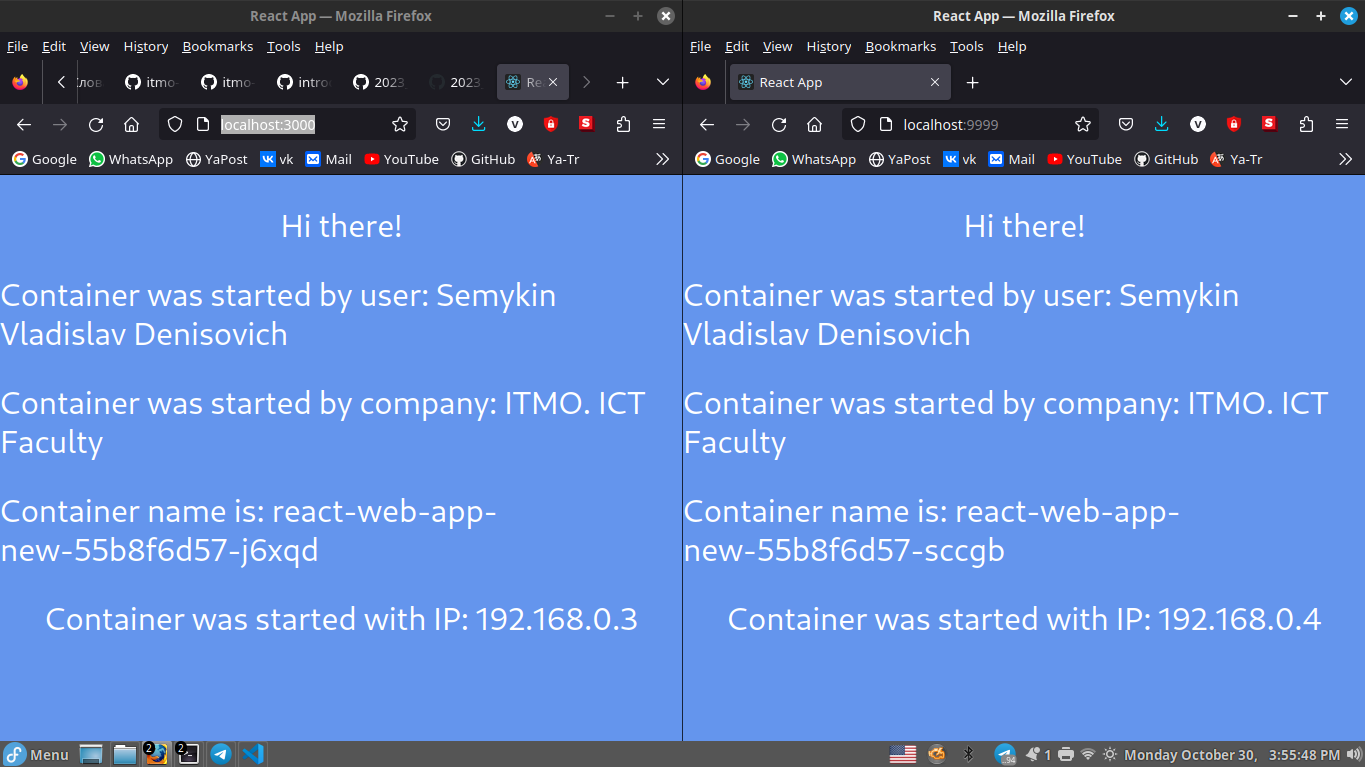
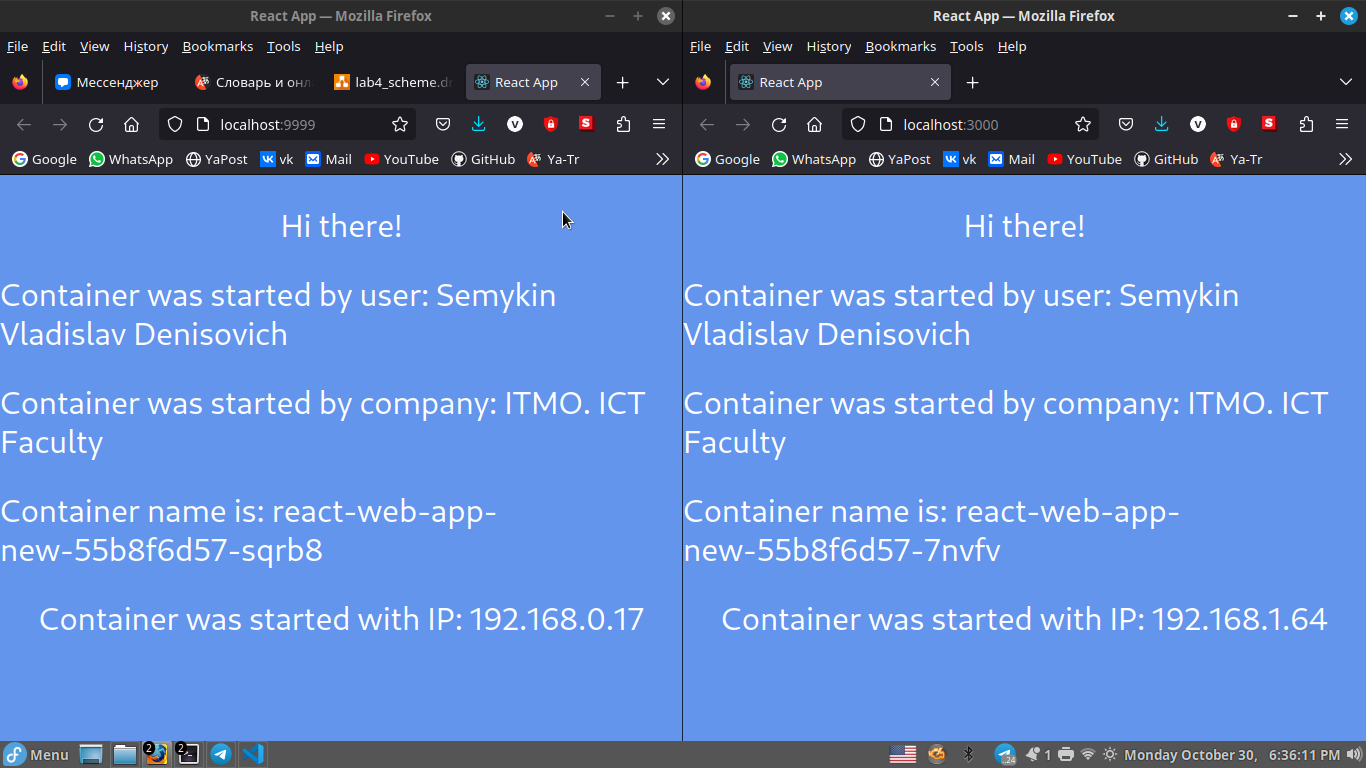
Fixed issue with IP pools

diff --git a/lab4/lab4_report.md b/lab4/lab4_report.md
@@ -126,6 +126,10 @@ Command `kubectl edit` would open your default text editor with the manifest of 
 
 <img src="imgs/2.png">
 
+Node manifests after the editing:
+
+<img src="imgs/edited_node_manifests.png">
+
 Let check our labels:
 
 ```bash
@@ -238,28 +242,28 @@ kubectl get ingress -n common-namespace
 
 ```
 NAME               STATUS   AGE
-common-namespace   Active   84s
-default            Active   20h
-kube-node-lease    Active   20h
-kube-public        Active   20h
-kube-system        Active   20h
+common-namespace   Active   30s
+default            Active   23h
+kube-node-lease    Active   23h
+kube-public        Active   23h
+kube-system        Active   23h
 NAME                                    READY   STATUS    RESTARTS   AGE
-pod/react-web-app-new-55b8f6d57-ss8kb   1/1     Running   0          84s
-pod/react-web-app-new-55b8f6d57-txpb7   1/1     Running   0          84s
+pod/react-web-app-new-55b8f6d57-7nvfv   1/1     Running   0          31s
+pod/react-web-app-new-55b8f6d57-sqrb8   1/1     Running   0          31s
 
-NAME                    TYPE        CLUSTER-IP     EXTERNAL-IP   PORT(S)    AGE
-service/react-web-app   ClusterIP   10.111.54.92   <none>        3000/TCP   84s
+NAME                    TYPE        CLUSTER-IP      EXTERNAL-IP   PORT(S)    AGE
+service/react-web-app   ClusterIP   10.104.223.15   <none>        3000/TCP   31s
 
 NAME                                READY   UP-TO-DATE   AVAILABLE   AGE
-deployment.apps/react-web-app-new   2/2     2            2           84s
+deployment.apps/react-web-app-new   2/2     2            2           31s
 
 NAME                                          DESIRED   CURRENT   READY   AGE
-replicaset.apps/react-web-app-new-55b8f6d57   2         2         2       84s
+replicaset.apps/react-web-app-new-55b8f6d57   2         2         2       31s
 NAME               DATA   AGE
-config             2      85s
-kube-root-ca.crt   1      85s
+config             2      31s
+kube-root-ca.crt   1      31s
 NAME            CLASS    HOSTS                  ADDRESS   PORTS     AGE
-react-web-app   <none>   vladislavsemykin.com             80, 443   85s
+react-web-app   <none>   vladislavsemykin.com             80, 443   31s
 ```
 
 Exposing service at the port = 3000:
@@ -277,9 +281,9 @@ kubectl get pods -n common-namespace -o wide
 ```
 
 ```
-NAME                                READY   STATUS    RESTARTS   AGE     IP            NODE            NOMINATED NODE   READINESS GATES
-react-web-app-new-55b8f6d57-j6xqd   1/1     Running   0          7m49s   192.168.0.3   multinode-app   <none>           <none>
-react-web-app-new-55b8f6d57-sccgb   1/1     Running   0          7m49s   192.168.0.4   multinode-app   <none>           <none>
+NAME                                READY   STATUS    RESTARTS   AGE   IP             NODE                NOMINATED NODE   READINESS GATES
+react-web-app-new-55b8f6d57-7nvfv   1/1     Running   0          58s   192.168.1.64   multinode-app-m02   <none>           <none>
+react-web-app-new-55b8f6d57-sqrb8   1/1     Running   0          58s   192.168.0.17   multinode-app       <none>           <none>
 ```
 
 ### Checking that both of pods are working properly
@@ -287,8 +291,8 @@ react-web-app-new-55b8f6d57-sccgb   1/1     Running   0          7m49s   192.168
 For do this, we can do `port-forwarding` mechanism:
 
 ```bash
-kubectl port-forward -n common-namespace pod/react-web-app-new-55b8f6d57-j6xqd 3000:3000
-kubectl port-forward -n common-namespace pod/react-web-app-new-55b8f6d57-sccgb 9999:3000
+kubectl port-forward -n common-namespace pod/react-web-app-new-55b8f6d57-7nvfv 3000:3000
+kubectl port-forward -n common-namespace pod/react-web-app-new-55b8f6d57-sqrb8 9999:3000
 ```
 
 <img src="imgs/4.png">
@@ -301,15 +305,15 @@ As we can see, both of pods are working properly, if we check them on addresses 
 
 #### Table 1 - Pod name and corresponding IP
 
-|             Pod name              |     IP      |
-| :-------------------------------: | :---------: |
-| react-web-app-new-55b8f6d57-j6xqd | 192.168.0.3 |
-| react-web-app-new-55b8f6d57-sccgb | 192.168.0.4 |
+|             Pod name              |      IP      |
+| :-------------------------------: | :----------: |
+| react-web-app-new-55b8f6d57-7nvfv | 192.168.1.64 |
+| react-web-app-new-55b8f6d57-sqrb8 | 192.168.0.17 |
 
 On the previous image and after executing command to get all resources we can see IPs of the both pod-shells. Now, our task is to enter in one pod and try to ping the second pod from the first using the command `kubectl exec`:
 
 ```bash
-kubectl exec -n common-namespace -it react-web-app-new-55b8f6d57-j6xqd -- ping 192.168.0.4
+kubectl exec -n common-namespace -it react-web-app-new-55b8f6d57-7nvfv -- ping 192.168.0.17
 ```
 
 Flags:
@@ -318,65 +322,65 @@ Flags:
 `-n` - name of the namespace.
 
 ```
-PING 192.168.0.4 (192.168.0.4): 56 data bytes
-64 bytes from 192.168.0.4: seq=0 ttl=63 time=0.150 ms
-64 bytes from 192.168.0.4: seq=1 ttl=63 time=0.081 ms
-64 bytes from 192.168.0.4: seq=2 ttl=63 time=0.093 ms
-64 bytes from 192.168.0.4: seq=3 ttl=63 time=0.069 ms
-64 bytes from 192.168.0.4: seq=4 ttl=63 time=0.207 ms
-64 bytes from 192.168.0.4: seq=5 ttl=63 time=0.104 ms
-64 bytes from 192.168.0.4: seq=6 ttl=63 time=0.109 ms
-64 bytes from 192.168.0.4: seq=7 ttl=63 time=0.127 ms
-64 bytes from 192.168.0.4: seq=8 ttl=63 time=0.088 ms
-64 bytes from 192.168.0.4: seq=9 ttl=63 time=0.079 ms
-64 bytes from 192.168.0.4: seq=10 ttl=63 time=0.071 ms
-64 bytes from 192.168.0.4: seq=11 ttl=63 time=0.102 ms
-64 bytes from 192.168.0.4: seq=12 ttl=63 time=0.503 ms
-64 bytes from 192.168.0.4: seq=13 ttl=63 time=0.090 ms
-64 bytes from 192.168.0.4: seq=14 ttl=63 time=0.069 ms
-64 bytes from 192.168.0.4: seq=15 ttl=63 time=0.088 ms
-64 bytes from 192.168.0.4: seq=16 ttl=63 time=0.074 ms
-64 bytes from 192.168.0.4: seq=17 ttl=63 time=0.600 ms
-64 bytes from 192.168.0.4: seq=18 ttl=63 time=0.272 ms
-64 bytes from 192.168.0.4: seq=19 ttl=63 time=0.128 ms
+PING 192.168.0.17 (192.168.0.17): 56 data bytes
+64 bytes from 192.168.0.17: seq=0 ttl=62 time=0.305 ms
+64 bytes from 192.168.0.17: seq=1 ttl=62 time=0.155 ms
+64 bytes from 192.168.0.17: seq=2 ttl=62 time=0.146 ms
+64 bytes from 192.168.0.17: seq=3 ttl=62 time=0.200 ms
+64 bytes from 192.168.0.17: seq=4 ttl=62 time=0.164 ms
+64 bytes from 192.168.0.17: seq=5 ttl=62 time=0.297 ms
+64 bytes from 192.168.0.17: seq=6 ttl=62 time=0.156 ms
+64 bytes from 192.168.0.17: seq=7 ttl=62 time=0.173 ms
+64 bytes from 192.168.0.17: seq=8 ttl=62 time=0.165 ms
+64 bytes from 192.168.0.17: seq=9 ttl=62 time=0.192 ms
+64 bytes from 192.168.0.17: seq=10 ttl=62 time=0.209 ms
+64 bytes from 192.168.0.17: seq=11 ttl=62 time=0.181 ms
+64 bytes from 192.168.0.17: seq=12 ttl=62 time=0.174 ms
+64 bytes from 192.168.0.17: seq=13 ttl=62 time=0.177 ms
+64 bytes from 192.168.0.17: seq=14 ttl=62 time=0.192 ms
+64 bytes from 192.168.0.17: seq=15 ttl=62 time=0.162 ms
+64 bytes from 192.168.0.17: seq=16 ttl=62 time=0.197 ms
+64 bytes from 192.168.0.17: seq=17 ttl=62 time=0.157 ms
+64 bytes from 192.168.0.17: seq=18 ttl=62 time=0.180 ms
+64 bytes from 192.168.0.17: seq=19 ttl=62 time=0.164 ms
 ^C
---- 192.168.0.4 ping statistics ---
+--- 192.168.0.17 ping statistics ---
 20 packets transmitted, 20 packets received, 0% packet loss
-round-trip min/avg/max = 0.069/0.155/0.600 ms
+round-trip min/avg/max = 0.146/0.187/0.305 ms
 ```
 
 Pinging first from second:
 
 ```bash
-kubectl exec -n common-namespace -it react-web-app-new-55b8f6d57-sccgb -- ping 192.168.0.3
+kubectl exec -n common-namespace -it react-web-app-new-55b8f6d57-sqrb8 -- ping 192.168.1.64
 ```
 
 ```
-PING 192.168.0.3 (192.168.0.3): 56 data bytes
-64 bytes from 192.168.0.3: seq=0 ttl=63 time=0.134 ms
-64 bytes from 192.168.0.3: seq=1 ttl=63 time=0.075 ms
-64 bytes from 192.168.0.3: seq=2 ttl=63 time=0.062 ms
-64 bytes from 192.168.0.3: seq=3 ttl=63 time=0.073 ms
-64 bytes from 192.168.0.3: seq=4 ttl=63 time=0.077 ms
-64 bytes from 192.168.0.3: seq=5 ttl=63 time=0.109 ms
-64 bytes from 192.168.0.3: seq=6 ttl=63 time=0.104 ms
-64 bytes from 192.168.0.3: seq=7 ttl=63 time=0.090 ms
-64 bytes from 192.168.0.3: seq=8 ttl=63 time=0.079 ms
-64 bytes from 192.168.0.3: seq=9 ttl=63 time=0.086 ms
-64 bytes from 192.168.0.3: seq=10 ttl=63 time=0.118 ms
-64 bytes from 192.168.0.3: seq=11 ttl=63 time=0.113 ms
-64 bytes from 192.168.0.3: seq=12 ttl=63 time=0.110 ms
-64 bytes from 192.168.0.3: seq=13 ttl=63 time=0.596 ms
-64 bytes from 192.168.0.3: seq=14 ttl=63 time=0.075 ms
-64 bytes from 192.168.0.3: seq=15 ttl=63 time=0.078 ms
-64 bytes from 192.168.0.3: seq=16 ttl=63 time=0.079 ms
-64 bytes from 192.168.0.3: seq=17 ttl=63 time=0.096 ms
-64 bytes from 192.168.0.3: seq=18 ttl=63 time=0.168 ms
-64 bytes from 192.168.0.3: seq=19 ttl=63 time=0.081 ms
+PING 192.168.1.64 (192.168.1.64): 56 data bytes
+64 bytes from 192.168.1.64: seq=0 ttl=62 time=0.289 ms
+64 bytes from 192.168.1.64: seq=1 ttl=62 time=0.500 ms
+64 bytes from 192.168.1.64: seq=2 ttl=62 time=0.284 ms
+64 bytes from 192.168.1.64: seq=3 ttl=62 time=0.276 ms
+64 bytes from 192.168.1.64: seq=4 ttl=62 time=0.395 ms
+64 bytes from 192.168.1.64: seq=5 ttl=62 time=1.107 ms
+64 bytes from 192.168.1.64: seq=6 ttl=62 time=0.335 ms
+64 bytes from 192.168.1.64: seq=7 ttl=62 time=0.172 ms
+64 bytes from 192.168.1.64: seq=8 ttl=62 time=0.178 ms
+64 bytes from 192.168.1.64: seq=9 ttl=62 time=0.148 ms
+64 bytes from 192.168.1.64: seq=10 ttl=62 time=0.156 ms
+64 bytes from 192.168.1.64: seq=11 ttl=62 time=0.281 ms
+64 bytes from 192.168.1.64: seq=12 ttl=62 time=0.161 ms
+64 bytes from 192.168.1.64: seq=13 ttl=62 time=0.162 ms
+64 bytes from 192.168.1.64: seq=14 ttl=62 time=0.181 ms
+64 bytes from 192.168.1.64: seq=15 ttl=62 time=0.155 ms
+64 bytes from 192.168.1.64: seq=16 ttl=62 time=0.132 ms
+64 bytes from 192.168.1.64: seq=17 ttl=62 time=0.168 ms
+64 bytes from 192.168.1.64: seq=18 ttl=62 time=0.167 ms
+64 bytes from 192.168.1.64: seq=19 ttl=62 time=0.143 ms
 ^C
---- 192.168.0.3 ping statistics ---
+--- 192.168.1.64 ping statistics ---
 20 packets transmitted, 20 packets received, 0% packet loss
-round-trip min/avg/max = 0.062/0.120/0.596 ms
+round-trip min/avg/max = 0.132/0.269/1.107 ms
 ```
 
 ### Scheme
